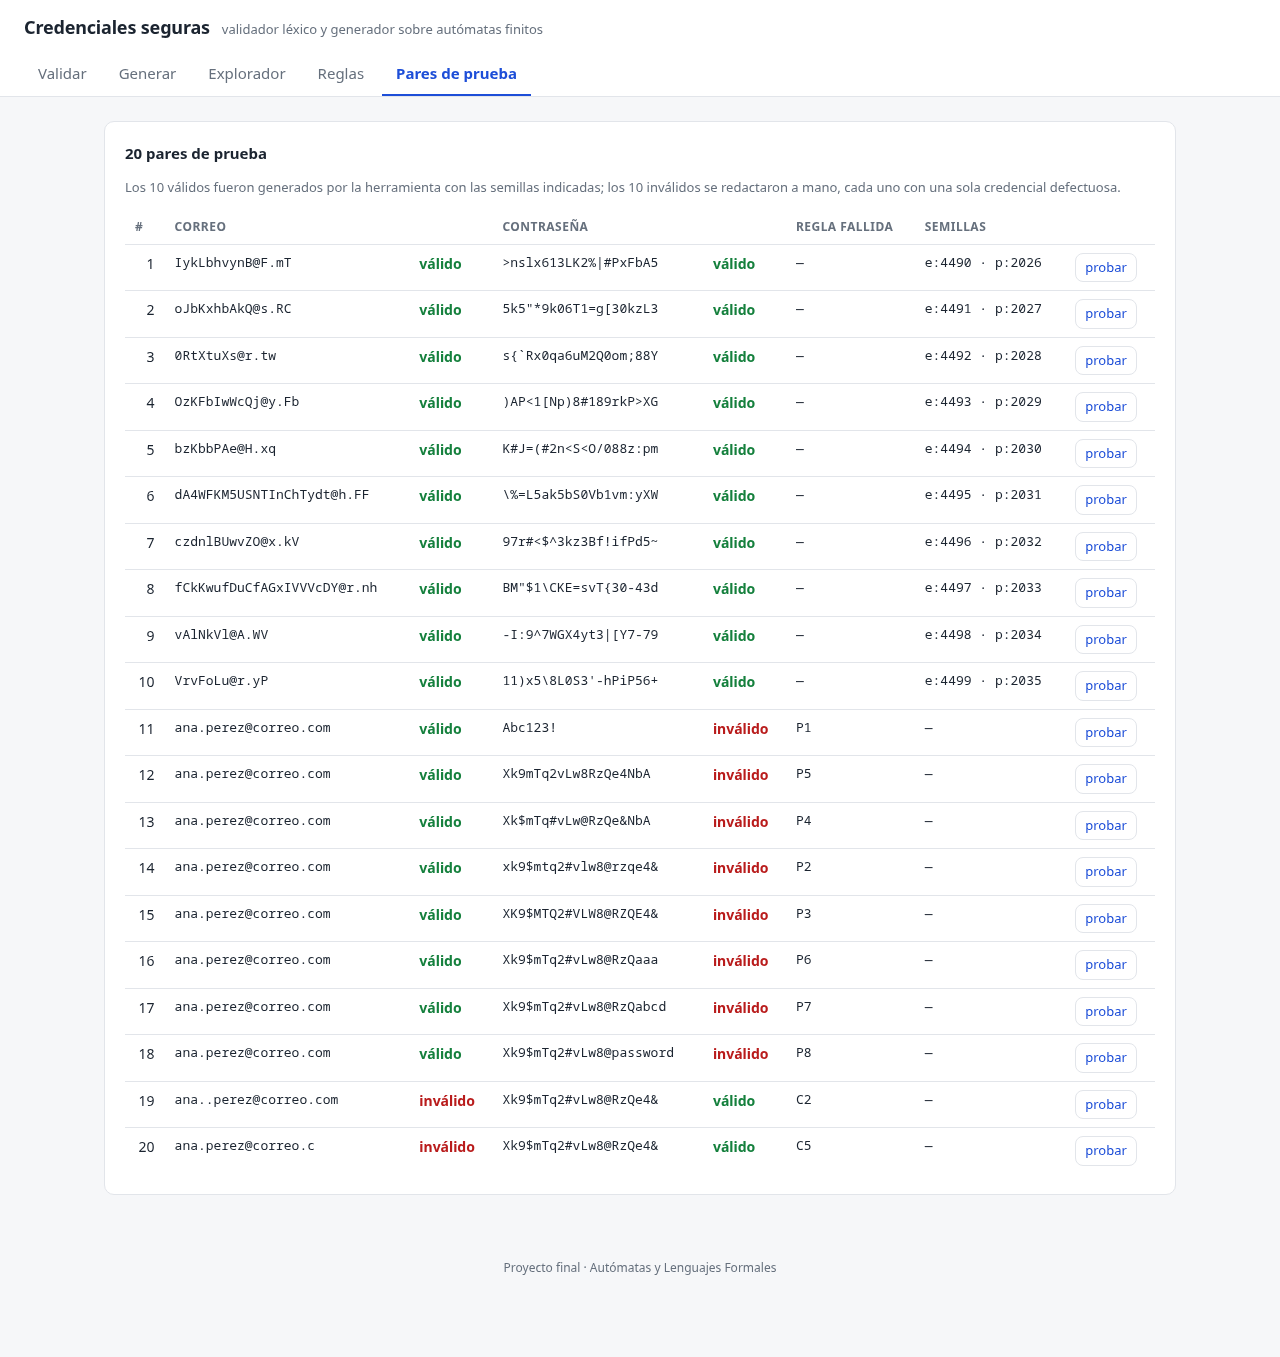
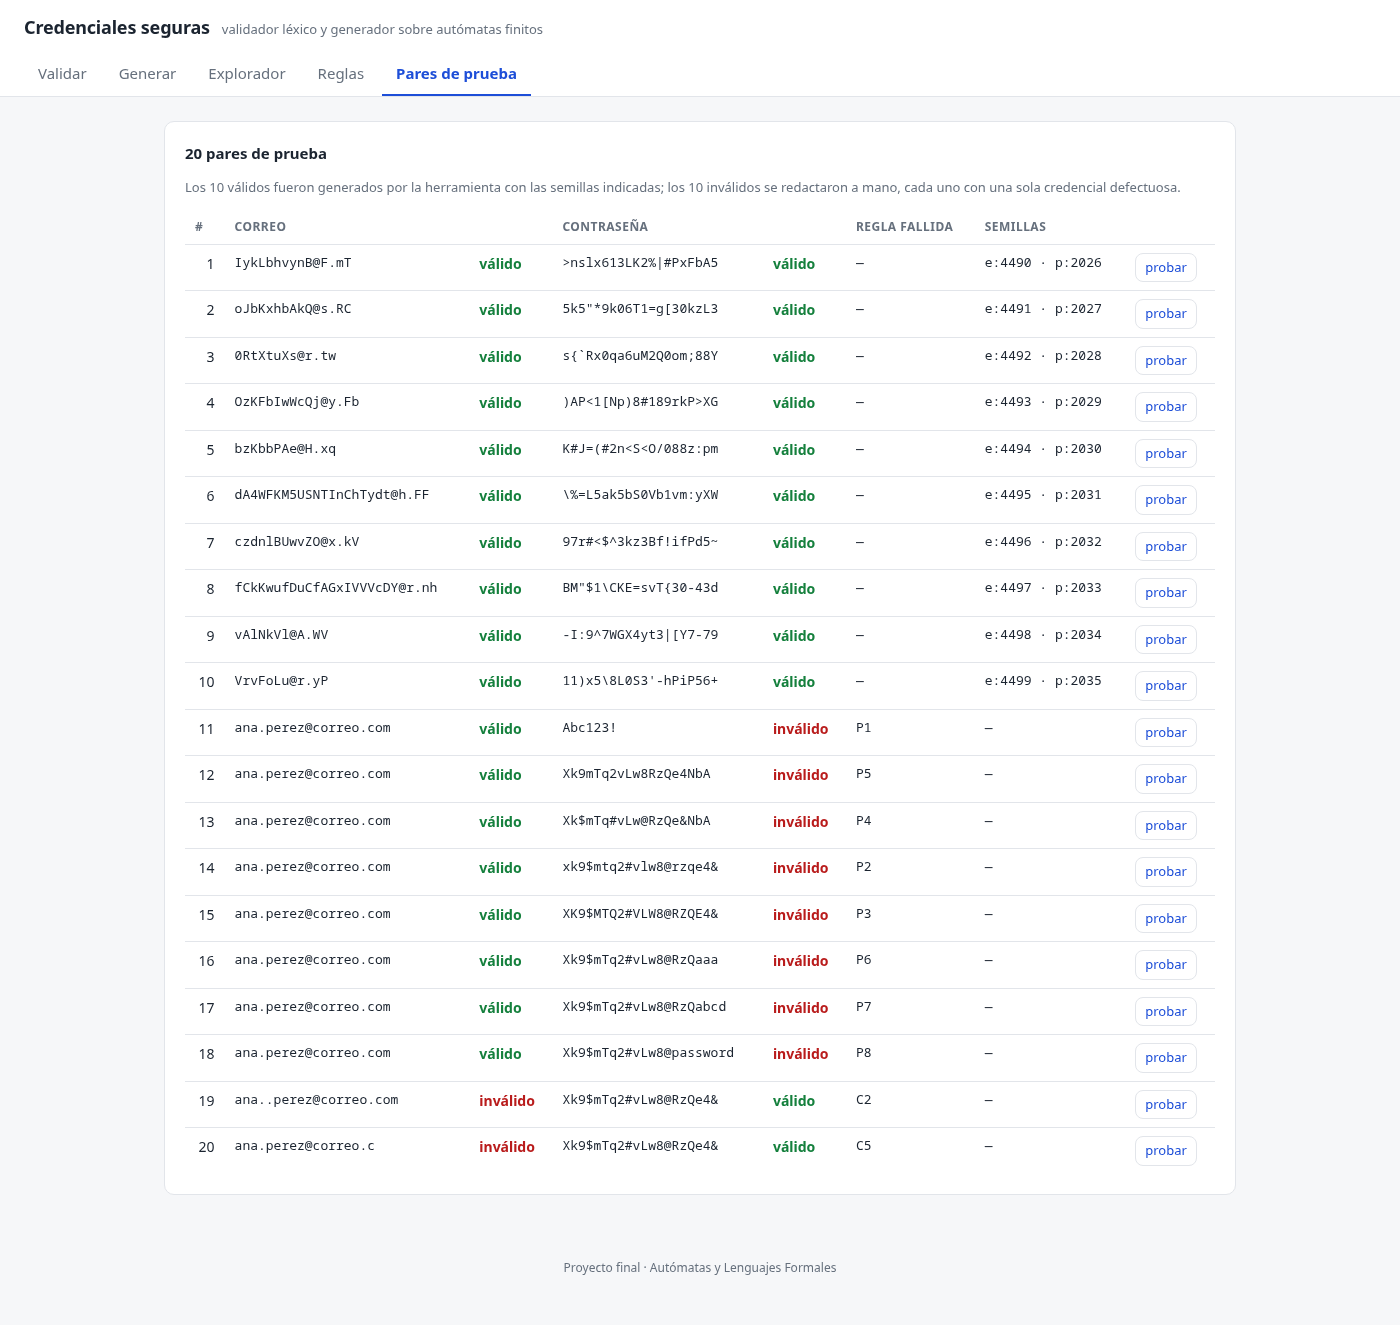
docs: review the final document and retake its figures
Sixteen factual fixes from a section-by-section pass: NIST Rev. 4 with its
year and section, the product built on the minimized DFAs (not on the
product), the 944 reachable states explained with the measured 1/4/10/14
combination counts, the tree-vs-minimum argument in the conclusions, the
length limits traced to RFC 5321 and RFC 1035 instead of RFC 5322, the
oracle corpus described as it is, the two checks that run in make check
and the one in check-oracle, and a bibliography in the style of the first
advance.

The figures were retaken as full-page captures trimmed to their content:
the pair report now shows the P8 row and the Baja level instead of
clipping at P6, the two explorer shots drop the 53 110-row table, and the
rules table fits all 17 rules in one screen.

Changed region(s): [[0.0938, 0.0928, 0.875, 0.8974], [0.0, 0.0, 0.4062, 0.0928], [0.4062, 0.9283, 0.5938, 0.9592]]

diff --git a/docs/entregas/final/documento.md b/docs/entregas/final/documento.md
@@ -3,7 +3,9 @@
 **Curso:** Autómatas y Lenguajes Formales
 **Catedrática:** Lcda. Mildred Veronica Palacios Martinez
 **Universidad Mariano Gálvez de Guatemala — Campus Huehuetenango**
-**Integrantes:** <!-- TODO: nombres y carné -->
+**Facultad de Ingeniería en Sistema**
+**Integrantes:** Cristian Antonio Mendoza Mendoza (4490-24-10243), Freidh Yannel Morales
+<!-- TODO: carné -->, Walter Emanuel Figueroa Vásquez <!-- TODO: carné -->
 **Fecha:** <!-- TODO: fecha de entrega -->
 
 ---
@@ -15,16 +17,17 @@ autómatas finitos. El validador decide si un correo electrónico y una contrase
 un conjunto de reglas derivadas de NIST SP 800-63B, del CIS Password Policy Guide y del
 RFC 5322, e informa **cuál regla exacta** falla cuando la credencial es rechazada. El
 generador no sortea cadenas al azar hasta que una pase: construye el autómata producto de
-las cinco reglas de aceptación de contraseñas, lo minimiza, y camina sobre él tomando
-únicamente transiciones desde las que todavía es posible terminar en un estado de
+las cinco reglas de aceptación de contraseñas sobre sus AFD minimizados, y camina sobre él
+tomando únicamente transiciones desde las que todavía es posible terminar en un estado de
 aceptación. El resultado es determinista para una semilla dada y se puede reproducir paso
 por paso.
 
-Las 17 reglas se escriben como expresiones regulares, se convierten a un AFND-ε por el
-método de Thompson, se determinan por subconjuntos, se contrastan con el método del árbol
-y se minimizan por el algoritmo de Moore. La implementación en Go se verificó contra dos
-oráculos independientes: la biblioteca RE2 y el prototipo en Python del primer avance.
-Ambos coinciden en el 100 % de los casos.
+Las 17 reglas se declaran como expresiones regulares —o como verificaciones de conjunto,
+en el caso de P0 y C0—, se convierten a un AFND-ε por el método de Thompson, se determinan
+por subconjuntos, se contrastan con el método del árbol y se minimizan por el algoritmo de
+Moore. La implementación en Go se verificó contra dos oráculos independientes: la
+biblioteca RE2 y el prototipo en Python del primer avance. Ambos coinciden en el 100 % de
+los casos.
 
 ---
 
@@ -35,11 +38,11 @@ condiciones dispersas en el código: `len(s) >= 15`, `strings.ContainsAny(s, "!@
 `regexp.MatchString(...)`. Ese enfoque funciona, pero no responde la pregunta que interesa
 en un curso de lenguajes formales: **¿qué lenguaje acepta el sistema?**
 
-Este proyecto responde esa pregunta de forma explícita. Cada regla es una expresión
-regular sobre un alfabeto declarado; cada expresión se compila a un autómata finito
-determinista mínimo; y tanto la validación como la generación operan sobre esos autómatas,
-no sobre condicionales ad hoc. De ahí se obtienen tres propiedades que el trabajo
-demuestra y mide:
+Este proyecto responde esa pregunta de forma explícita. Cada regla de forma es una
+expresión regular sobre un alfabeto declarado; cada expresión se compila a un autómata
+finito determinista mínimo; y tanto la validación como la generación operan sobre esos
+autómatas, no sobre condicionales ad hoc. De ahí se obtienen tres propiedades que el
+trabajo demuestra y mide:
 
 1. **Trazabilidad.** Cuando una contraseña es rechazada, el reporte nombra la regla y el
    autómata que la rechazó, no un mensaje genérico.
@@ -61,8 +64,9 @@ caminata guiada y la verificación.
 
 ### 2.1 NIST SP 800-63B
 
-La guía de identidad digital del NIST fija qué debe exigir un sistema de autenticación y,
-sobre todo, qué **no** debe exigir. Los puntos que este trabajo adopta:
+La guía de identidad digital del NIST (SP 800-63B, Revisión 4, 2025) fija qué debe exigir
+un sistema de autenticación y, sobre todo, qué **no** debe exigir. Los puntos que este
+trabajo adopta:
 
 - Longitud mínima de 15 caracteres para autenticadores de un solo factor.
 - Longitud máxima de al menos 64 caracteres, sin truncar la entrada.
@@ -81,8 +85,9 @@ son políticas configurables y no requisitos del NIST.
 ### 2.2 CIS Password Policy Guide
 
 El CIS no compite con NIST: lo traduce a valores operativos. De ahí se toman los umbrales
-de longitud, la noción de historial y la lista de palabras prohibidas que alimenta la regla
-P8.
+de longitud y la lista de palabras prohibidas que alimenta P8. El historial de contraseñas
+y el bloqueo de cuenta que el CIS también recomienda son políticas de servidor con estado,
+fuera del alcance de un validador léxico, y por eso no se implementan.
 
 ### 2.3 RFC 5322
 
@@ -96,13 +101,14 @@ autómata sin cambiar el método.
 
 | Fuente | Regla del sistema |
 |---|---|
-| NIST 800-63B §5.1.1.2 (longitud) | P1: entre 15 y 64 caracteres |
+| NIST 800-63B Rev. 4 (longitud mínima) | P1: entre 15 y 64 caracteres |
 | NIST 800-63B (complejidad) | P2-P5: mayúscula, minúscula, dígito y especial |
 | NIST 800-63B (repeticiones) | P6: tres caracteres idénticos consecutivos |
 | NIST 800-63B (secuencias) | P7: cuatro caracteres en orden ascendente o descendente |
 | NIST + CIS (blocklist) | P8: palabra prohibida |
-| RFC 5322 §3.2.3 (atext) | C1-C3: estructura, parte local y longitud local |
-| RFC 5322 §3.4.1 (dominio) | C4-C6: etiquetas, TLD y longitud del dominio |
+| RFC 5322 §3.2.3 (atext) | C1-C2: estructura y parte local |
+| RFC 5322 §3.4.1 (dominio) | C4-C5: etiquetas y TLD |
+| RFC 5321 §4.5.3.1 y RFC 1035 §2.3.4 (longitudes) | C3, C4 y C6: 64, 63 y 255 octetos |
 
 ---
 
@@ -232,7 +238,7 @@ arranque.
 ## 5. Verificación de la implementación
 
 Ninguna de las afirmaciones anteriores se apoya en inspección visual. Hay tres controles
-automáticos, y los tres corren en la puerta de calidad.
+automáticos: dos corren en `make check` y el tercero en `make check-oracle`.
 
 ### 5.1 Equivalencia interna
 
@@ -244,7 +250,8 @@ no, los lenguajes difieren. No es una muestra: es una decisión.
 ### 5.2 Oráculo RE2
 
 Cada expresión se traduce a sintaxis RE2 y se compara con el autómata sobre **1500 cadenas
-por regla**, generadas para cubrir los bordes del lenguaje. Total: **22 500
+por regla**: la mitad son mutaciones de una cadena válida, que alcanzan las fronteras de
+longitud y de clase, y la otra mitad son cadenas aleatorias. Total: **22 500
 comparaciones, 0 discrepancias**. Este oráculo es el que detecta errores de traducción: si
 la expresión que se muestra en pantalla no es la que el autómata implementa, RE2 y el
 autómata discrepan en alguna cadena.
@@ -266,8 +273,8 @@ error de índices o de orden de estados aparecería como un conteo distinto.
 `POST /api/validar` devuelve, para cada regla, su identificador, si se evaluó, si pasó y un
 mensaje en español. Las reglas que no se evalúan aparecen como omitidas en lugar de
 desaparecer: si P0 falla porque hay un carácter fuera del alfabeto, el reporte muestra las
-nueve reglas de contraseña con las ocho restantes omitidas. Así el usuario ve el conjunto
-completo y entiende por qué se detuvo la evaluación.
+nueve reglas de contraseña, con P1 a P8 marcadas como omitidas. Así el usuario ve el
+conjunto completo y entiende por qué se detuvo la evaluación.
 
 ### 6.2 Nivel de seguridad
 
@@ -296,6 +303,10 @@ prohibida es **Baja**, no Fuerte, porque el nivel se calcula después de los fil
 | Espacios | ambos tipos | se eliminan antes de validar |
 | Blocklist | palabra prohibida en cadena larga | Baja |
 
+Los tres límites de longitud del correo no salen del RFC 5322, que no los fija: el de 64 en
+la parte local y el de 255 en el dominio vienen del RFC 5321, y el de 63 por etiqueta, del
+RFC 1035. Por eso C3, C4 y C6 los declaran explícitamente en lugar de darlos por supuestos.
+
 ---
 
 ## 7. Generación guiada por el autómata
@@ -308,10 +319,13 @@ quinta (q₁, q₂, q₃, q₄, q₅) de estados de los AFD minimizados, y una t
 cuando las cinco componentes pueden tomarla con el mismo símbolo.
 
 El tamaño teórico es el producto de los tamaños, 65 × 2 × 2 × 2 × 2 = 1040 estados. El
-producto **alcanzable** desde el estado inicial tiene **944** estados: 96 combinaciones son
-inalcanzables porque P2-P5 comparten alfabeto y estructura. El programa construye el
-producto sobre los AFD **minimizados**, no sobre los de subconjuntos; hacerlo sobre estos
-últimos daría 257 × 9⁴ ≈ 1.69 millones de estados, inviable.
+producto **alcanzable** desde el estado inicial tiene **944**: los 65 estados de P1
+aparecen todos, pero no con las 16 combinaciones de P2-P5. Con menos de cuatro símbolos no
+todas las clases pueden haber aparecido (1, 4, 10 y 14 combinaciones para 0, 1, 2 y 3
+caracteres leídos), y aun con cuatro o más queda una combinación que ninguna cadena
+produce: la de las cuatro clases sin aparecer. El programa construye el producto sobre los
+AFD **minimizados**, no sobre los de subconjuntos; hacerlo sobre estos últimos daría
+257 × 9⁴ ≈ 1.69 millones de estados, inviable.
 
 El alfabeto del producto se toma de P1, cuyas cuatro clases (L, l, N, S) cubren Σ<sub>P</sub>
 sin solaparse. Cada transición del producto es, entonces, una transición por clase, y el
@@ -339,8 +353,9 @@ que preservaba la alcanzabilidad. Al final, el estado es de aceptación por cons
 
 Esto es lo que distingue al generador de un `random.choice` sobre el alfabeto seguido de un
 filtro: la probabilidad de producir una cadena válida por sorteo es ínfima para 20
-caracteres con cinco reglas simultáneas, mientras que la caminata produce una cadena válida
-en el primer intento.
+caracteres con cinco reglas simultáneas, mientras que la caminata produce una cadena que el
+producto acepta en el primer intento, y solo la descarta si después la atrapa un filtro de
+rechazo.
 
 ### 7.3 Filtros de rechazo
 
@@ -351,11 +366,11 @@ evalúa contra los tres filtros; si alguno la acepta (es decir, si contiene una 
 una secuencia o una palabra prohibida), se descarta y se vuelve a caminar con el **mismo**
 generador pseudoaleatorio, que continúa su secuencia.
 
-El límite es de 200 intentos; con las reglas actuales el rechazo es poco frecuente y el
-límite no se alcanza. El generador de correos usa la misma idea sobre el AFD mínimo de C\*,
-con un detalle importante: una caminata uniforme sobre C\* casi nunca encuentra la arroba,
-porque hay muchas más transiciones que la evitan. La guía por alcanzabilidad es la que
-fuerza a que la parte local, la arroba, las etiquetas y el TLD aparezcan en orden.
+El límite es de 200 intentos; en las pruebas de propiedad el límite no se alcanza nunca.
+El generador de correos usa la misma idea sobre el AFD mínimo de C\*, con un detalle
+importante: una caminata uniforme sobre C\* casi nunca encuentra la arroba, porque hay
+muchas más transiciones que la evitan. La guía por alcanzabilidad es la que fuerza a que la
+parte local, la arroba, las etiquetas y el TLD aparezcan en orden.
 
 ### 7.4 Determinismo
 
@@ -379,8 +394,10 @@ del símbolo consumido.*
 ### 7.5 Propiedad del generador
 
 Se generaron **1000 contraseñas** con longitudes entre 15 y 64 y **300 correos**; el 100 %
-fue aceptado por el validador. La prueba corre además dos veces en el mismo proceso y una
-vez tras reiniciar, para comprobar que el estado del generador no se filtra entre llamadas.
+fue aceptado por el validador. La misma semilla se ejecuta dos veces dentro del proceso
+para comparar valor y camino, y los 20 pares se regeneran byte a byte desde un archivo
+construido en una ejecución anterior: eso cubre la comprobación entre reinicios, porque el
+generador no guarda estado global.
 
 ---
 
@@ -388,8 +405,8 @@ vez tras reiniciar, para comprobar que el estado del generador no se filtra entr
 
 La entrega incluye diez pares válidos, generados por la herramienta, y diez inválidos, cada
 uno con exactamente una credencial defectuosa. Las tablas se generan desde
-`testdata/pares.json` con `make pares-tabla`; una prueba falla si el documento y el archivo
-se desincronizan.
+`testdata/pares.json` con `make pares-tabla`, que escribe `pares.md`; las de este capítulo
+son una copia de ese fragmento, y una prueba falla si `pares.md` se desincroniza del JSON.
 
 ### Pares válidos
 
@@ -475,25 +492,30 @@ probarlo con sus propios casos.
 
 ![Validar un par: veredicto conjunto y los dos reportes por regla](capturas/validar-par.png)
 
-*Figura 3. Validar en modo par. La contraseña del par 18 es rechazada por P8 (palabra
-prohibida) y el reporte del correo, que sí es válido, se muestra completo debajo.*
+*Figura 3. Validar en modo par. El correo pasa sus siete reglas y queda en verde; la
+contraseña contiene una palabra prohibida, P8 la marca en rojo con el mensaje que nombra el
+motivo, y el nivel baja a Baja. El par es inválido porque basta que falle una de las dos
+mitades.*
 
 ![Explorador: P2 con 34 estados en el AFND, 9 por subconjuntos y 2 en el mínimo](capturas/explorador-p2.png)
 
-*Figura 4. Explorador sobre P2. Los cuatro conteos de la regla aparecen en la cabecera y la
-tabla de transiciones se pagina debajo.*
+*Figura 4. Explorador sobre P2. La cabecera resume los cuatro conteos —34 en el AFND-ε, 9
+por subconjuntos, 2 en el árbol y 2 en el mínimo— y el grafo dibuja el AFD por subconjuntos,
+que es la vista seleccionada. La tabla de transiciones y el simulador quedan debajo, en la
+misma pantalla.*
 
 ![Explorador: vecindad de q0 en P6, un autómata de 565 estados por subconjuntos](capturas/explorador-vecindad.png)
 
-*Figura 5. Vecindad navegable. Las vistas que superan el umbral de dibujo se muestran como
-un despliegue en anchura desde el estado elegido: 21 de 565 estados, con la tabla de
-transiciones disponible debajo. Un clic en cualquier nodo lo vuelve centro.*
+*Figura 5. Vecindad navegable. Cuando la vista supera el umbral de dibujo, el explorador
+muestra solo la vecindad del estado elegido hasta la profundidad indicada: 21 de los 565
+estados de P6 por subconjuntos, y 20 de sus 200 aristas. Un clic en cualquier nodo lo vuelve
+centro.*
 
 ![Reglas: las 17 reglas con su expresión formal y su traducción a RE2](capturas/reglas.png)
 
-*Figura 6. Pantalla de reglas. La traducción a RE2 de P1 se muestra recortada, porque la
-repetición `{15,64}` se expande; un clic en la celda la despliega completa.*
-
+*Figura 6. Pantalla de reglas, con las 17 en una sola vista. La traducción a RE2 de P1 se
+muestra recortada a tres líneas porque la repetición `{15,64}` se expande a miles de
+caracteres; un clic en la celda la despliega completa.*
 
 ### 9.3 Contrato de la API
 
@@ -525,21 +547,22 @@ en Python y no es necesario para ejecutar la aplicación.
 | Diferencial Python | 15 reglas, 6000 cadenas | mismos conteos y veredictos |
 | Generador | 1000 contraseñas + 300 correos | 100 % válidas, deterministas |
 | Pares | 20 pares | 20 veredictos correctos, regeneración byte a byte |
-| Fronteras | longitudes, niveles, etiquetas, dominios | todos los casos del cuadro 6.3 |
+| Fronteras | longitudes, niveles, etiquetas, dominios | todos los casos de la sección 6.3 |
 
 ---
 
 ## 11. Conclusiones
 
-1. **El lenguaje se puede declarar.** Las 17 reglas caben en expresiones regulares sobre
-   alfabetos explícitos, y esa declaración es ejecutable: el mismo texto que se muestra en
-   pantalla es el que se compila.
+1. **El lenguaje se puede declarar.** Las 15 reglas de forma caben en expresiones regulares
+   sobre alfabetos explícitos, y las dos de alfabeto se reducen a una verificación de
+   conjunto. Esa declaración es ejecutable: el mismo texto que se muestra en pantalla es el
+   que se compila.
 2. **Construir dos veces sirve.** El método del árbol y el de subconjuntos producen
    autómatas distintos del mismo lenguaje; comprobar su equivalencia detecta errores que
    una batería de cadenas no detectaría.
-3. **La minimización no es cosmética.** Reduce el producto de 1040 combinaciones teóricas a
-   944 alcanzables, y el autómata de C\* de 12 a 8 estados; sin ella, el producto sobre los
-   AFD de subconjuntos sería inviable.
+3. **La minimización no es cosmética.** Sobre los AFD de subconjuntos el producto tendría
+   1.69 millones de estados; sobre los mínimos son 1040 teóricos y 944 alcanzables. Además
+   reduce el autómata de C\* de 12 a 8 estados.
 4. **Generar es caminar, no sortear.** La tabla de alcanzabilidad convierte la generación en
    una caminata dirigida que no puede atascarse, y el determinismo hace la demostración
    reproducible.
@@ -562,12 +585,36 @@ make check-oracle     # diferencial contra el prototipo Python
 
 Semillas de demostración: contraseña `2026` (longitud 20) y correo `4490`.
 
+Repositorio del código: <https://github.com/FreidhYMorales/credenciales-seguras>.
+
 ---
 
 ## Anexo B. Referencias
 
-- NIST, *Digital Identity Guidelines: Authentication and Lifecycle Management*, SP 800-63B.
-- Center for Internet Security, *CIS Password Policy Guide*, v21.12 (2021).
-- IETF, *RFC 5322: Internet Message Format*.
-- PCI Security Standards Council, *PCI-DSS v4.0.1*, requisito 8.3 (contraste).
-- Documento del primer avance: `docs/entregas/avance-1/AYLF Final Avance corregido.pdf`.
+Aho, A. V., Lam, M. S., Sethi, R. y Ullman, J. D. (2006). *Compilers: Principles,
+Techniques, and Tools* (2.ª ed.). Addison-Wesley.
+
+Center for Internet Security. (2021). *CIS Password Policy Guide*, versión 21.12.
+<https://www.cisecurity.org>
+
+Hopcroft, J. E., Motwani, R. y Ullman, J. D. (2007). *Introduction to Automata Theory,
+Languages, and Computation* (3.ª ed.). Pearson/Addison-Wesley.
+
+Klensin, J. (2008). *RFC 5321: Simple Mail Transfer Protocol*. Internet Engineering Task
+Force. <https://www.rfc-editor.org/info/rfc5321/>
+
+Mockapetris, P. (1987). *RFC 1035: Domain Names — Implementation and Specification*.
+Internet Engineering Task Force. <https://www.rfc-editor.org/info/rfc1035/>
+
+NIST. (2025). *NIST Special Publication 800-63B, Revision 4: Digital Identity Guidelines —
+Authentication and Lifecycle Management*. National Institute of Standards and Technology.
+<https://pages.nist.gov/800-63-4/sp800-63b.html>
+
+PCI Security Standards Council. (2024). *Payment Card Industry Data Security Standard:
+Requirements and Testing Procedures*, v4.0.1 (contraste: fija 12 caracteres como mínimo,
+frente a los 15 del NIST). <https://www.pcisecuritystandards.org>
+
+Resnick, P. (Ed.). (2008). *RFC 5322: Internet Message Format*. Internet Engineering Task
+Force. <https://www.rfc-editor.org/info/rfc5322/>
+
+Documento del primer avance: `docs/entregas/avance-1/AYLF Final Avance corregido.pdf`.
